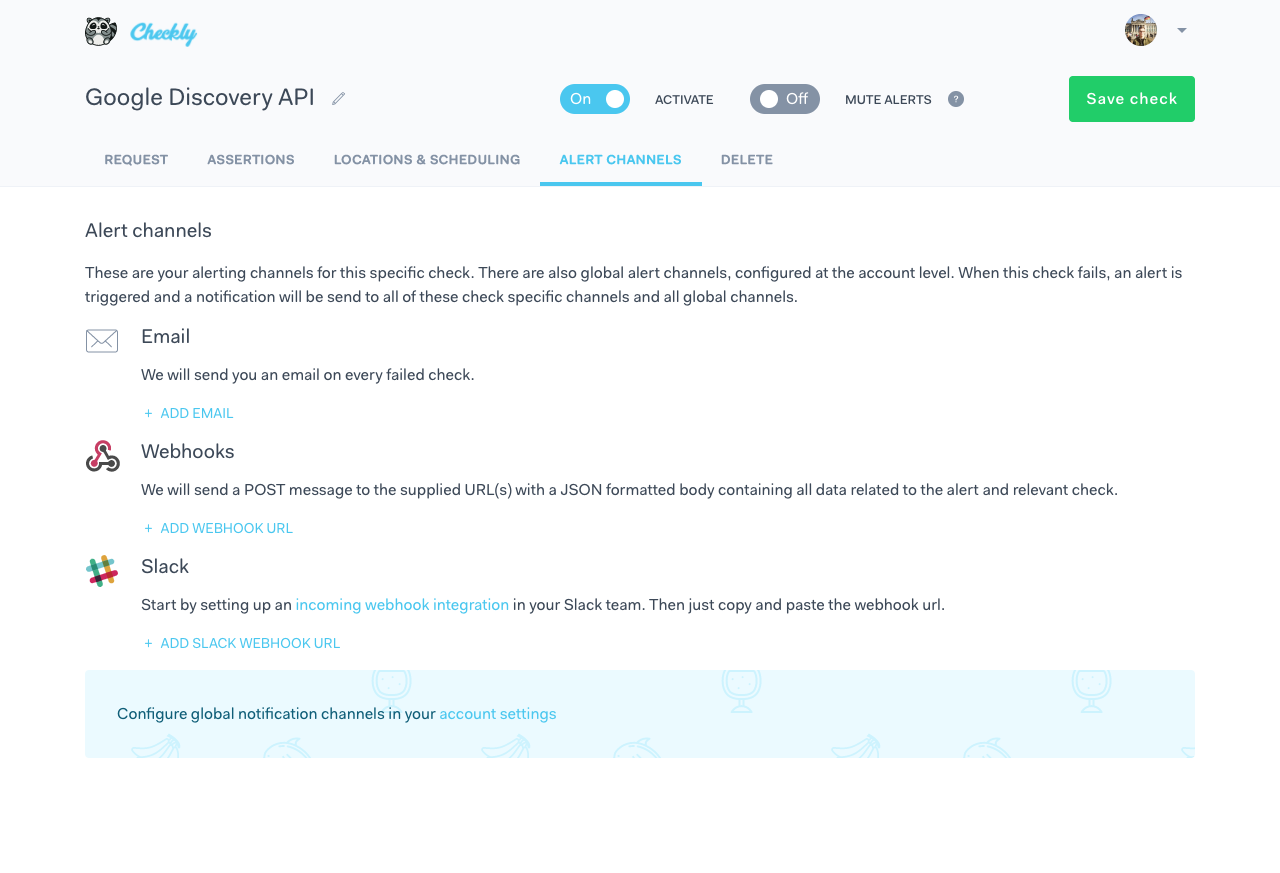
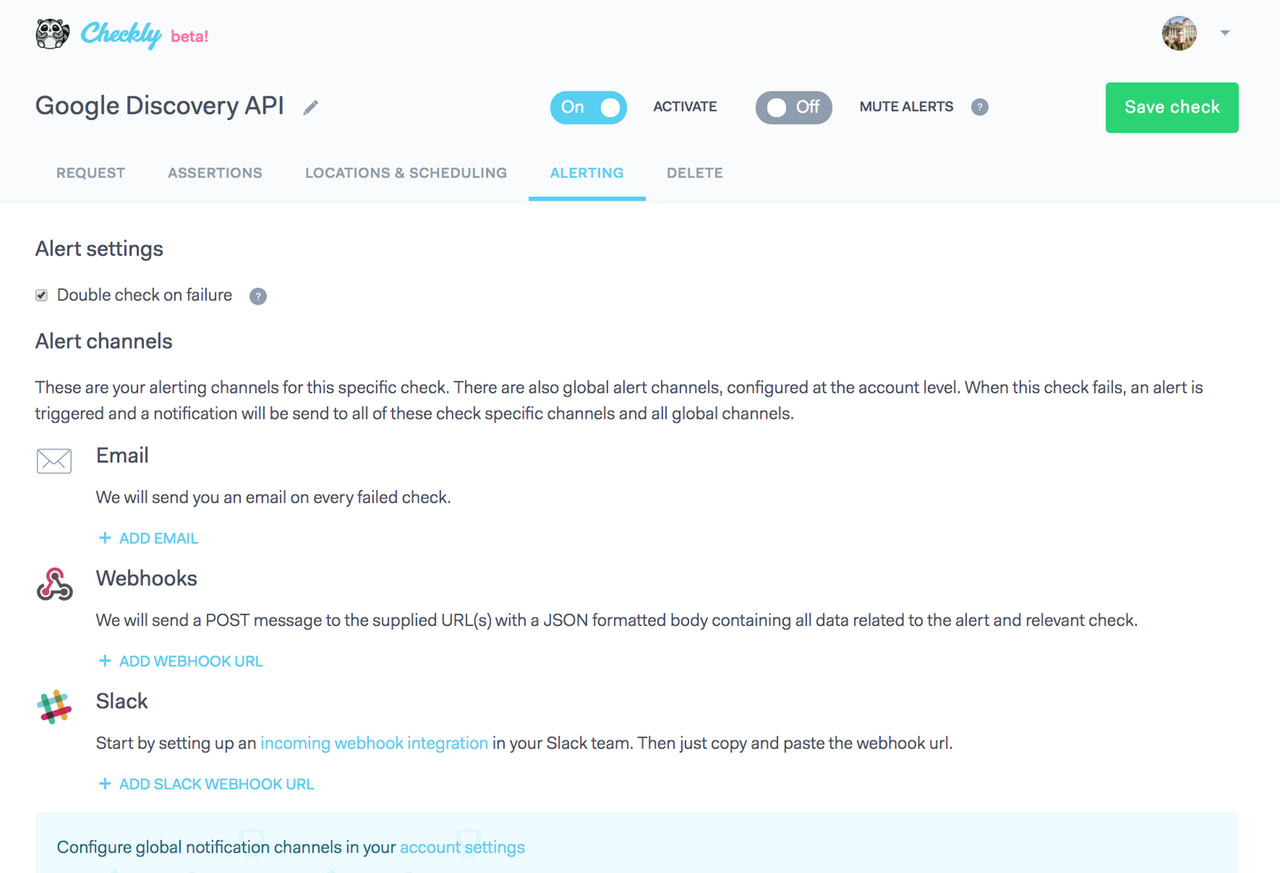
adds alerting docs & double checks

diff --git a/site/layouts/index.html b/site/layouts/index.html
@@ -31,4 +31,4 @@ from a single dashboard.</h2></div></div></div><div class="row"><div class="col-
 Check your most crucial user flows every 5 minutes.</p></div></div><div class="row"><div class="col-sm-12 text-center mb-4"><a class="info-link" href="/docs/browser-checks/quickstart/">Wait, how does this work?</a></div></div><div class="row mb-2"><div class="col-sm-12 text-center"><form class="form"><div class="row"><div class="col-sm-6 col-lg-3 offset-lg-3"><div class="form-group"><button class="btn btn-primary btn-block" @click.prevent="postBrowserCheck()" :disabled="checkIsBusy">Run browser check<div class="btn-spinner" v-if="checkIsBusy"></div></button></div></div><div class="col-sm-6 col-lg-3"><div class="form-group"><select class="custom-select" v-model="browserCheck" @change="showEditor = true"><option v-for="example in browserExamples" :value="example">${example.name}</option></select></div></div></div></form></div></div><div class="row mb-3"><div class="col-sm-12 col-lg-10 offset-lg-1 font-height"><a href="#" @click.prevent="showEditor = !showEditor" v-show="!showEditor">Back to editor</a></div></div><div class="row"><div class="col-sm-12 col-lg-10 offset-lg-1"><transition name="drop-up" mode="out-in"><div class="editor big-drop-shadow" v-if="showEditor" key="editor"><pre v-highlightjs="browserCheck.script"><code class="javascript"></code></pre></div><div class="browser-check-results big-drop-shadow" v-else key="results"><transition name="drop-down" mode="out-in"><div class="browser-check-results-status" v-if="checkIsBusy &amp;&amp; browserCheckResults.length === 0" key="pending"><div class="pt-5 text-center"><img class="pulse" src="/images/browser.svg"><div class="text-muted lead-text">${runBrowserCheckButtonText}</div></div></div><!-- results--><div v-else key="results"><div class="form-section mb-4"><div class="form-header">${browserCheck.name}</div></div><!-- Mocha output--><div class="results-mocha-output"><table class="table" v-if="browserCheckResults.length &gt; 0"><thead><tr><th class="mocha-table-status">Status</th><th>Test</th><th class="mocha-table-duration">Duration</th></tr></thead><tbody name="drop-down" is="transition-group"><tr v-for="(test, index) of browserCheckResults" :key="index"><td><status-circle size="small" :has-failures="test.state != &quot;passed&quot;" :has-errors="test.state != &quot;passed&quot;" has-status activated></status-circle></td><td><span v-if="test.state === &quot;passed&quot;">${test.title}</span><span v-else><div class="mocha-table-test-result-title" href="#" @click.prevent="toggleShowDetails(index)" :class="{ open : test.showDetails }">${test.title}</div><transition name="drop-down"><div class="mocha-test-details" v-show="test.showDetails"><table class="table" v-if="test.err"><tbody><tr><th>Actual</th><td class="text-nowrap">${test.err.actual}</td></tr><tr><th>Expected</th><td class="text-nowrap">${test.err.expected}</td><td> ${test.err.message}</td></tr></tbody></table></div></transition></span></td><td class="text-right">${test.duration | duration} ${test.duration | durationUnit }</td></tr></tbody></table><div class="text-center pb-4" v-if="checkIsBusy"><spinner inline></spinner></div></div><div class="mocha-tests-summary" v-if="browserCheckResults.length &gt; 0"><label class="form-control-label mb-3">Summary</label><div class="test-completed text-muted">${testsCompletedCount} tests completed</div><div class="tests-failed text-danger">${testsFailedCount} tests failed</div></div><div class="results-wrapper" v-if="checkIsDone"><!-- Puppeteer output logs--><div class="results-console-output" v-show="browserCheckRun.result.consoleLog"><label class="form-control-label mb-3">Console output</label><pre v-if="browserCheckRun.result.consoleLog">${browserCheckRun.result.consoleLog}</pre><pre v-else>no output</pre></div></div><!-- Errors--><div class="browser-check-results-errors"><div class="text-left" v-if="browserCheckRun.error"><h5 class="mb-3">There was an error running your code</h5><pre>${browserCheckRun.error.message}
 ${browserCheckRun.error.stack}</pre></div></div></div></transition></div></transition></div></div></div></section><section class="api-checks-section"><div class="container"><div class="row"><div class="col-sm-12 text-center"><h2 class="section-header">No more broken API's</h2></div></div><div class="row"><div class="col-sm-12 col-lg-8 offset-lg-2 text-center"><p class="lead-text">Set up your API GET & POST requests and add assertions to check for response time, response content, JSON
 schema, headers and many more things.
-Try it out below!</p></div></div><div class="row mb-2"><div class="col-sm-12 text-center"><form class="form"><div class="row"><div class="col-sm-6 col-lg-3 offset-lg-3"><div class="form-group"><button class="btn btn-primary btn-block" @click.prevent="postApiCheck()" :disabled="apiLoading">${runApiCheckButtonText}<div class="btn-spinner" v-if="apiLoading"></div></button></div></div><div class="col-sm-6 col-lg-3"><div class="form-group"><select class="custom-select" v-model="apiCheck.check.request" @change="showApiResult = false"><option v-for="example in apiExamples" :value="example">${example.name}</option></select></div></div></div></form></div></div><div class="row mb-3"><div class="col-sm-12 col-lg-10 offset-lg-1 font-height"><a href="#" @click.prevent="showApiResult = false" v-show="showApiResult">Back to HTTP request</a></div></div><div class="row"><div class="col-sm-12 col-lg-10 offset-lg-1"><div class="api-check-container big-drop-shadow"><transition name="move-right"><div class="form-section mb-4" v-show="showApiResult"><div class="text-center"><h4 class="mb-4" v-show="apiCheck.result.hasFailures || apiCheck.result.hasErrors">Whoops, you're check failed!</h4><h4 class="mb-4" v-show="!apiCheck.result.hasFailures &amp;&amp; !apiCheck.result.hasErrors">This check is awesome!</h4><div class="d-inline-block"><status-circle class="mb-3" size="large" activated has-status :has-failures="apiCheck.result.hasFailures || apiCheck.result.hasFailures.hasErrors"></status-circle></div></div><span v-show="apiCheck.result.hasErrors"><h5>Error message</h5><pre class="mb-2">${apiCheck.result.response.error}</pre></span><label class="form-control-label">Request URL</label><pre>${apiCheck.check.request.method} ${apiCheck.check.request.url}</pre><div class="row"><div class="col-sm-6"><label class="form-control-label">Status code</label><pre>${apiCheck.result.response.status}</pre></div><div class="col-sm-6"><label class="form-control-label">Response time</label><pre>${apiCheck.result.responseTime | duration} ${apiCheck.result.responseTime | durationUnit}</pre></div></div><div class="assertion-result" v-show="apiCheck.check.request.assertions.length &gt; 0"><h5>Assertion results</h5><table class="table table-responsive-sm mb-4" v-show="apiCheck.check.request.assertions.length &gt; 0"><thead><tr><th></th><th>Source</th><th>Property</th><th>Comparison</th><th>Target</th></tr></thead><tbody><tr v-for="assertion in apiCheck.result.assertions" :class="{ &quot;table-danger&quot; : assertion.error }"><td><status-circle size="small" activated has-status :has-failures="!!(assertion.error)"></status-circle></td><td>${assertion.source}</td><td>${assertion.property}</td><td>${assertion.comparison}</td><td>${assertion.target}</td></tr></tbody></table></div></div></transition><transition name="move-left"><div v-show="!showApiResult"><div class="form-section mb-4"><div class="form-header">HTTP Request</div><div class="form-group"><div class="row"><div class="col-2"><label class="form-control-label">Method<span class="ml-1 text-danger">*</span></label><select class="custom-select" v-model="apiCheck.check.request.method"><option value="GET">GET</option><option value="POST">POST</option><option value="PUT">PUT</option><option value="HEAD">HEAD</option><option value="DELETE">DELETE</option><option value="PATCH">PATCH</option></select></div><div class="col-10"><label class="form-control-label">URL<span class="ml-1 text-danger">*</span></label><input class="form-control" v-model="apiCheck.check.request.url" name="url" type="text"></div></div></div></div><div class="form-section"><div class="form-header">Assertions</div><div class="table-responsive"><table class="table check-edit-table mb-0"><thead><tr><th>Source</th><th>Property</th><th>Comparison</th><th>Target</th></tr></thead><tbody><tr v-for="(assertion, index) of apiCheck.check.request.assertions" v-show="apiCheck.check.request.assertions.length &gt; 0"><td><select class="custom-select" v-model="apiCheck.check.request.assertions[index].source"><option v-for="source in assertionSources" :value="source.value">${source.text}</option></select></td><td><input class="form-control" type="text" v-model="apiCheck.check.request.assertions[index].property"></td><td><select class="custom-select" v-model="apiCheck.check.request.assertions[index].comparison"><option v-for="comparison of assertionComparisons" :value="comparison.value">${comparison.text}</option></select></td><td><input class="form-control" type="text" v-model="apiCheck.check.request.assertions[index].target"></td></tr></tbody></table></div></div></div></transition></div></div></div></div></section><section class="features-section"><div class="container"><div class="row mb-lg-5 mb-3"><div class="col-sm-12 text-center"><h3 class="section-header">And when the inevitable happens?</h3></div></div><div class="row"><div class="col-sm-3"><ul class="feature-slider"><li @click.prevent="selectedFeature = 1" :class="{ &quot;feature-selected&quot; : selectedFeature === 1 }"><div class="feature-header"><span class="btn-icon mr-3">🔔</span>Alerting</div><p class="feature-body">Get alerted via email, Slack or webhooks.</p></li><li @click.prevent="selectedFeature = 2" :class="{ &quot;feature-selected&quot; : selectedFeature === 2 }"><div class="feature-header">📈<span class="btn-icon mr-3"></span>Stats and metrics</div><p class="feature-body">Clear response time and up time stats per location.</p></li><li @click.prevent="selectedFeature = 3" :class="{ &quot;feature-selected&quot; : selectedFeature === 3 }"><div class="feature-header"><span class="btn-icon mr-3">🔬</span>Analytics</div><p class="feature-body">Drill down into detailed information on all failed checks.</p></li><li @click.prevent="selectedFeature = 4" :class="{ &quot;feature-selected&quot; : selectedFeature === 4 }"><div class="feature-header"><span class="btn-icon mr-3">🌎</span>Global coverage</div><p class="feature-body">Check your API's and browser transactions from up to eight datacenters.</p></li></ul></div><div class="col-sm-9"><img class="fade-in screen-image ml-lg-5" v-show="selectedFeature === 1" src="/images/alerts-screen@2x.png"><img class="fade-in screen-image ml-lg-5 lazy" v-show="selectedFeature === 2" src="/images/show-screen@2x.png"><img class="fade-in screen-image ml-lg-5 lazy" v-show="selectedFeature === 3" src="/images/result-detail-screen@2x.png"><img class="fade-in screen-image ml-lg-5 lazy" v-show="selectedFeature === 4" src="/images/locations-screen@2x.png"></div></div></div></section><section class="public-stats-section"><div class="container"><div class="row"><div class="col-sm-12 text-center"><div class="counter-text">We ran<span class="counter">${publicStats.apiCheckResults}</span>API checks and<span class="counter">${publicStats.browserCheckResults}</span>Browser checks with 💖</div></div></div></div></section><section class="free-trial-section"><div class="container"><div class="row"><div class="col-sm-8 offset-sm-2"><div class="card"><div class="card-block"><div class="text-center"><h2 class="section-header pt-4">Try it out for free for 15 days</h2><p class="lead-text">Start actively monitoring your API endpoints and browser click flows today.</p><a class="btn btn-success btn-lg" href="https://app.checklyhq.com/signup">Start a free trial</a><div class="pt-2 text-muted mb-4"><small>no credit card required</small></div></div></div></div></div></div></div></section></div></div><footer class="footer"><div class="container"><div class="row footer-top"><div class="col-sm-2"><div class="mb-3 mb-md-0"><img src="/images/text_racoon_logo.svg" width="100px"></div></div><div class="col-sm-2"><div class="mb-3 mb-md-0"><h6>Product</h6><ul><li><a href="/pricing">Pricing</a></li><li><a href="/docs">Docs</a></li></ul></div></div><div class="col-sm-2"><div class="mb-3 mb-md-0"><h6>Company</h6><ul><li><a href="/support">Support</a></li><li><a href="/privacy">Privacy policy</a></li></ul></div></div><div class="col-sm-6"><h6>Get on topic product info and updates</h6><div id="mc_embed_signup"><form class="form-inline validate" action="https://run.us15.list-manage.com/subscribe/post?u=9af9712f622c6511cb2113669&amp;amp;id=adb061483c" method="post" id="mc-embedded-subscribe-form" name="mc-embedded-subscribe-form" target="_blank" novalidate><input class="form-control email-address-input mb-3 mb-md-0 mr-md-2" type="email" value="" name="EMAIL" width="280px" id="mce-EMAIL" placeholder="Email address"><button class="btn btn-primary submit-button button" type="submit" value="Subscribe" name="subscribe" id="mc-embedded-subscribe">Subscribe</button><div class="clear" id="mce-responses"><div class="response" id="mce-error-response" style="display:none;"></div><div class="response" id="mce-success-response" style="display:none;"></div></div><div style="position: absolute; left: -5000px;" aria-hidden="true"><input type="text" name="b_9af9712f622c6511cb2113669_adb061483c" tabindex="-1" value=""></div></form></div><div class="pt-2 text-muted"><small>no spam - unsubscribe anytime</small></div></div></div><div class="row footer-bottom"><div class="col-12"><span>Checkly · Paul-Lincke-Ufer 30, 10999, Berlin · Copyright © 2018</span><div class="float-right"><a href="https://twitter.com/checklyhq" target="_blank"><img src="/images/twitter.svg"></a></div></div></div></div></footer><!-- main scripts--><script src="https://code.jquery.com/jquery-3.1.1.slim.min.js" integrity="sha384-A7FZj7v+d/sdmMqp/nOQwliLvUsJfDHW+k9Omg/a/EheAdgtzNs3hpfag6Ed950n" crossorigin="anonymous"></script><script src="https://cdnjs.cloudflare.com/ajax/libs/tether/1.4.0/js/tether.min.js" integrity="sha384-DztdAPBWPRXSA/3eYEEUWrWCy7G5KFbe8fFjk5JAIxUYHKkDx6Qin1DkWx51bBrb" crossorigin="anonymous"></script><script src="https://maxcdn.bootstrapcdn.com/bootstrap/4.0.0-alpha.6/js/bootstrap.min.js" integrity="sha384-vBWWzlZJ8ea9aCX4pEW3rVHjgjt7zpkNpZk+02D9phzyeVkE+jo0ieGizqPLForn" crossorigin="anonymous"></script><script src="/js/index.js"></script><div>{{ if .IsHome }}<script src="/js/app.js"></script>{{end}}</div></body>
+Try it out below!</p></div></div><div class="row mb-2"><div class="col-sm-12 text-center"><form class="form"><div class="row"><div class="col-sm-6 col-lg-3 offset-lg-3"><div class="form-group"><button class="btn btn-primary btn-block" @click.prevent="postApiCheck()" :disabled="apiLoading">${runApiCheckButtonText}<div class="btn-spinner" v-if="apiLoading"></div></button></div></div><div class="col-sm-6 col-lg-3"><div class="form-group"><select class="custom-select" v-model="apiCheck.check.request" @change="showApiResult = false"><option v-for="example in apiExamples" :value="example">${example.name}</option></select></div></div></div></form></div></div><div class="row mb-3"><div class="col-sm-12 col-lg-10 offset-lg-1 font-height"><a href="#" @click.prevent="showApiResult = false" v-show="showApiResult">Back to HTTP request</a></div></div><div class="row"><div class="col-sm-12 col-lg-10 offset-lg-1"><div class="api-check-container big-drop-shadow"><transition name="move-right"><div class="form-section mb-4" v-show="showApiResult"><div class="text-center"><h4 class="mb-4" v-show="apiCheck.result.hasFailures || apiCheck.result.hasErrors">Whoops, you're check failed!</h4><h4 class="mb-4" v-show="!apiCheck.result.hasFailures &amp;&amp; !apiCheck.result.hasErrors">This check is awesome!</h4><div class="d-inline-block"><status-circle class="mb-3" size="large" activated has-status :has-failures="apiCheck.result.hasFailures || apiCheck.result.hasFailures.hasErrors"></status-circle></div></div><span v-show="apiCheck.result.hasErrors"><h5>Error message</h5><pre class="mb-2">${apiCheck.result.response.error}</pre></span><label class="form-control-label">Request URL</label><pre>${apiCheck.check.request.method} ${apiCheck.check.request.url}</pre><div class="row"><div class="col-sm-6"><label class="form-control-label">Status code</label><pre>${apiCheck.result.response.status}</pre></div><div class="col-sm-6"><label class="form-control-label">Response time</label><pre>${apiCheck.result.responseTime | duration} ${apiCheck.result.responseTime | durationUnit}</pre></div></div><div class="assertion-result" v-show="apiCheck.check.request.assertions.length &gt; 0"><h5>Assertion results</h5><table class="table table-responsive-sm mb-4" v-show="apiCheck.check.request.assertions.length &gt; 0"><thead><tr><th></th><th>Source</th><th>Property</th><th>Comparison</th><th>Target</th></tr></thead><tbody><tr v-for="assertion in apiCheck.result.assertions" :class="{ &quot;table-danger&quot; : assertion.error }"><td><status-circle size="small" activated has-status :has-failures="!!(assertion.error)"></status-circle></td><td>${assertion.source}</td><td>${assertion.property}</td><td>${assertion.comparison}</td><td>${assertion.target}</td></tr></tbody></table></div></div></transition><transition name="move-left"><div v-show="!showApiResult"><div class="form-section mb-4"><div class="form-header">HTTP Request</div><div class="form-group"><div class="row"><div class="col-2"><label class="form-control-label">Method<span class="ml-1 text-danger">*</span></label><select class="custom-select" v-model="apiCheck.check.request.method"><option value="GET">GET</option><option value="POST">POST</option><option value="PUT">PUT</option><option value="HEAD">HEAD</option><option value="DELETE">DELETE</option><option value="PATCH">PATCH</option></select></div><div class="col-10"><label class="form-control-label">URL<span class="ml-1 text-danger">*</span></label><input class="form-control" v-model="apiCheck.check.request.url" name="url" type="text"></div></div></div></div><div class="form-section"><div class="form-header">Assertions</div><div class="table-responsive"><table class="table check-edit-table mb-0"><thead><tr><th>Source</th><th>Property</th><th>Comparison</th><th>Target</th></tr></thead><tbody><tr v-for="(assertion, index) of apiCheck.check.request.assertions" v-show="apiCheck.check.request.assertions.length &gt; 0"><td><select class="custom-select" v-model="apiCheck.check.request.assertions[index].source"><option v-for="source in assertionSources" :value="source.value">${source.text}</option></select></td><td><input class="form-control" type="text" v-model="apiCheck.check.request.assertions[index].property"></td><td><select class="custom-select" v-model="apiCheck.check.request.assertions[index].comparison"><option v-for="comparison of assertionComparisons" :value="comparison.value">${comparison.text}</option></select></td><td><input class="form-control" type="text" v-model="apiCheck.check.request.assertions[index].target"></td></tr></tbody></table></div></div></div></transition></div></div></div></div></section><section class="features-section"><div class="container"><div class="row mb-lg-5 mb-3"><div class="col-sm-12 text-center"><h3 class="section-header">And when the inevitable happens?</h3></div></div><div class="row"><div class="col-sm-3"><ul class="feature-slider"><li @click.prevent="selectedFeature = 1" :class="{ &quot;feature-selected&quot; : selectedFeature === 1 }"><div class="feature-header"><span class="btn-icon mr-3">🔔</span>Alerting</div><p class="feature-body">Get alerted via email, Slack or webhooks. We rerun every failed check, just to be sure.</p></li><li @click.prevent="selectedFeature = 2" :class="{ &quot;feature-selected&quot; : selectedFeature === 2 }"><div class="feature-header">📈<span class="btn-icon mr-3"></span>Stats and metrics</div><p class="feature-body">Clear response time and up time stats per location.</p></li><li @click.prevent="selectedFeature = 3" :class="{ &quot;feature-selected&quot; : selectedFeature === 3 }"><div class="feature-header"><span class="btn-icon mr-3">🔬</span>Analytics</div><p class="feature-body">Drill down into detailed information on all failed checks.</p></li><li @click.prevent="selectedFeature = 4" :class="{ &quot;feature-selected&quot; : selectedFeature === 4 }"><div class="feature-header"><span class="btn-icon mr-3">🌎</span>Global coverage</div><p class="feature-body">Check your API's and browser transactions from up to eight datacenters.</p></li></ul></div><div class="col-sm-9"><img class="fade-in screen-image ml-lg-5" v-show="selectedFeature === 1" src="/images/alerts-screen@2x.png"><img class="fade-in screen-image ml-lg-5 lazy" v-show="selectedFeature === 2" src="/images/show-screen@2x.png"><img class="fade-in screen-image ml-lg-5 lazy" v-show="selectedFeature === 3" src="/images/result-detail-screen@2x.png"><img class="fade-in screen-image ml-lg-5 lazy" v-show="selectedFeature === 4" src="/images/locations-screen@2x.png"></div></div></div></section><section class="public-stats-section"><div class="container"><div class="row"><div class="col-sm-12 text-center"><div class="counter-text">We ran<span class="counter">${publicStats.apiCheckResults}</span>API checks and<span class="counter">${publicStats.browserCheckResults}</span>Browser checks with 💖</div></div></div></div></section><section class="free-trial-section"><div class="container"><div class="row"><div class="col-sm-8 offset-sm-2"><div class="card"><div class="card-block"><div class="text-center"><h2 class="section-header pt-4">Try it out for free for 15 days</h2><p class="lead-text">Start actively monitoring your API endpoints and browser click flows today.</p><a class="btn btn-success btn-lg" href="https://app.checklyhq.com/signup">Start a free trial</a><div class="pt-2 text-muted mb-4"><small>no credit card required</small></div></div></div></div></div></div></div></section></div></div><footer class="footer"><div class="container"><div class="row footer-top"><div class="col-sm-2"><div class="mb-3 mb-md-0"><img src="/images/text_racoon_logo.svg" width="100px"></div></div><div class="col-sm-2"><div class="mb-3 mb-md-0"><h6>Product</h6><ul><li><a href="/pricing">Pricing</a></li><li><a href="/docs">Docs</a></li></ul></div></div><div class="col-sm-2"><div class="mb-3 mb-md-0"><h6>Company</h6><ul><li><a href="/support">Support</a></li><li><a href="/privacy">Privacy policy</a></li></ul></div></div><div class="col-sm-6"><h6>Get on topic product info and updates</h6><div id="mc_embed_signup"><form class="form-inline validate" action="https://run.us15.list-manage.com/subscribe/post?u=9af9712f622c6511cb2113669&amp;amp;id=adb061483c" method="post" id="mc-embedded-subscribe-form" name="mc-embedded-subscribe-form" target="_blank" novalidate><input class="form-control email-address-input mb-3 mb-md-0 mr-md-2" type="email" value="" name="EMAIL" width="280px" id="mce-EMAIL" placeholder="Email address"><button class="btn btn-primary submit-button button" type="submit" value="Subscribe" name="subscribe" id="mc-embedded-subscribe">Subscribe</button><div class="clear" id="mce-responses"><div class="response" id="mce-error-response" style="display:none;"></div><div class="response" id="mce-success-response" style="display:none;"></div></div><div style="position: absolute; left: -5000px;" aria-hidden="true"><input type="text" name="b_9af9712f622c6511cb2113669_adb061483c" tabindex="-1" value=""></div></form></div><div class="pt-2 text-muted"><small>no spam - unsubscribe anytime</small></div></div></div><div class="row footer-bottom"><div class="col-12"><span>Checkly · Paul-Lincke-Ufer 30, 10999, Berlin · Copyright © 2018</span><div class="float-right"><a href="https://twitter.com/checklyhq" target="_blank"><img src="/images/twitter.svg"></a></div></div></div></div></footer><!-- main scripts--><script src="https://code.jquery.com/jquery-3.1.1.slim.min.js" integrity="sha384-A7FZj7v+d/sdmMqp/nOQwliLvUsJfDHW+k9Omg/a/EheAdgtzNs3hpfag6Ed950n" crossorigin="anonymous"></script><script src="https://cdnjs.cloudflare.com/ajax/libs/tether/1.4.0/js/tether.min.js" integrity="sha384-DztdAPBWPRXSA/3eYEEUWrWCy7G5KFbe8fFjk5JAIxUYHKkDx6Qin1DkWx51bBrb" crossorigin="anonymous"></script><script src="https://maxcdn.bootstrapcdn.com/bootstrap/4.0.0-alpha.6/js/bootstrap.min.js" integrity="sha384-vBWWzlZJ8ea9aCX4pEW3rVHjgjt7zpkNpZk+02D9phzyeVkE+jo0ieGizqPLForn" crossorigin="anonymous"></script><script src="/js/index.js"></script><div>{{ if .IsHome }}<script src="/js/app.js"></script>{{end}}</div></body>

diff --git a/src/scss/_sidebar-menu.scss b/src/scss/_sidebar-menu.scss
@@ -1,7 +1,7 @@
 .sidebar-menu {
 
   @include media-breakpoint-up(sm) {
-    position: fixed;
+    position: relative;
   }
 
   a {

diff --git a/src/scss/_markdown.scss b/src/scss/_markdown.scss
@@ -50,7 +50,7 @@
   }
 
   ul, ol {
-    padding-left: 1rem;
+    padding-left: 2rem;
   }
 
   img {

diff --git a/site/content/docs/alerting/settings.md b/site/content/docs/alerting/settings.md
@@ -1,0 +1,35 @@
+---
+title: General settings
+menu:
+  docs:
+    parent: "Alerting"
+---
+
+##  Global & per check alert channels
+
+Checkly allows you to manage your alert channels on two different levels:
+
+- Global account level
+- Per check level
+
+Use the account level to make sure everyone is always updated for all failing and recovered checks. This where you would 
+put your team's email address or add a hook for your Ops team's Slack channel.  
+
+If you want to alert one specific person or team for one specific check, you can set the alerts on the check level.
+You are free to mix and match both levels. 
+
+{{< info >}} Alerts are de-doubled before alerting, so you will never get two alerts because they were set at both levels.{{< /info >}}
+
+
+## Double checking
+
+Checkly runs on cloud infrastructure in data centers around the world. As nothing is perfect, this infrastructure
+occasionally experiences glitches and slow downs. Enabling the  **double check** option makes sure we rerun your check
+to catch false positives.
+
+- API checks are retried after 5 seconds
+- Browser checks are retried after 30 seconds. 
+
+This feature is switched on by default for all checks. 
+
+![](/docs/images/alerting/double_check.png)

diff --git a/site/content/whats-new/introducing-double-checks.md b/site/content/whats-new/introducing-double-checks.md
@@ -1,0 +1,15 @@
+---
+title: Introducing double checks
+date: 2018-03-23
+author: Tim Nolet
+---
+
+Checkly runs on cloud infrastructure in data centers around the world. As nothing is perfect, this infrastructure
+occasionally experiences glitches and slow downs. This is why we added the **double check** option for API and browser checks.
+Failing API checks are retried after 5 seconds, browser checks are retried after 30 seconds. This feature is now switched on by 
+default for all checks. 
+
+ 
+![](/whats-new/double_check.png)
+
+<!--more-->

diff --git a/site/content/whats-new/introducing-screenshots.md b/site/content/whats-new/introducing-screenshots.md
@@ -4,7 +4,7 @@ date: 2018-03-21
 author: Tim Nolet
 ---
 
-You can now take up to three screenshots for each browser check. This is a great time saver when troubleshooting checks
+You can now take up to three screenshots for each browser check. This is a great time saver when  existing checks
 or when debugging your new checks. [Read more...](/docs/browser-checks/screenshots/)
 
 ![](/docs/images/browser-checks/screenshots.png)

diff --git a/site/content/docs/browser-checks/quickstart.md b/site/content/docs/browser-checks/quickstart.md
@@ -6,6 +6,7 @@ aliases:
 menu:
   docs:
     parent: "Browser Checks"
+    identifier: quickstart-browser
 ---
 
 This quick start should give you all the info to create your first browser check with Checkly. You should have some prior

diff --git a/site/content/docs/api-checks/getting-started.md b/site/content/docs/api-checks/getting-started.md
@@ -1,8 +1,9 @@
 ---
-title: Creating an API request
+title: Quickstart
 menu:
   docs:
     parent: "API Checks"
+    identifier: quickstart-api
 ---
 
 Hang tight, the docs will be here soon! 🙏
